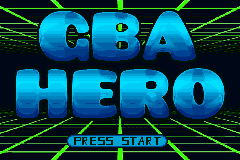
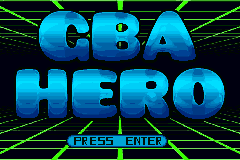
Updated download link, fullscreen button, instructions, and decorations

diff --git a/index.html b/index.html
@@ -7,7 +7,7 @@
   <!-- <link rel="stylesheet" href="./stylesheets/main.css"> -->
   <link rel="shortcut icon" href="./favicon.ico">
   <meta name="viewport" content="width=device-width, initial-scale=1">
-  <title>My Demo Site</title>
+  <title>GBA Hero</title>
 
   <style>
     body {
@@ -28,27 +28,101 @@
       margin: 0;
       background: powderblue;
       padding-top: 20px;
-      padding-bottom: 100px;
+      padding-bottom: 10px;
       color: black;
       font-size: 125%;
     }
 
-    img {
+    .displayImage {
       display: block;
       margin: auto;
       image-rendering: pixelated;
     }
+
+    .fullscreenbutton {
+    border: none;
+    color: rgb(255, 255, 255);
+    background-color: rgb(40, 40, 40);
+    padding: 5px 13px;
+    text-align: center;
+    text-decoration: none;
+    display: inline-block;
+    font-size: 32px;
+    margin: 4px 2px;
+    cursor: pointer;
+    position: relative;
+    display: flex;
+    margin: auto;
+    left: 425px;
+    top: 52px;
+    }
+
+    .downloadbutton {
+    border-style: dashed;
+    border-color: black;
+    border-width: 5px;
+    border-radius: 15%;
+    color: rgb(255, 255, 255);
+    background-color: dodgerblue;
+    /* transparent */
+    width: 200px;
+    height: 60px;
+
+    display: flex;
+    margin: auto;
+    justify-content: center;
+    align-items: center;
+
+    font-size: 32px;
+    text-decoration: none;
+    }
+
+    .leftbanner {
+      image-rendering: pixelated;
+      height: 100%;
+      position: fixed;
+      top: 0%;
+      left: 0%;
+      width: 18%;
+    }
+
+    .rightbanner {
+      image-rendering: pixelated;
+      height: 100%;
+      position: fixed;
+      top: 0%;
+      width: 18%;
+      left: 82%;
+      transform: scaleX(-1);
+    }
+
+    .container {
+      display: flex;
+    }
+
   </style>
 </head>
 
 <body>
   <!-- <h1>Welcome to my site.</h1>  -->
-  <img src="./Cool_Text_Trans.png" alt="Cool Text" width="720" height="405">
+  <img src="./Cool_Text_Trans.png" class="displayImage" alt="Cool Text" style="padding-top: 35px;" width="894" height="507">
   <!-- style="text-transform: uppercase;font-size: 54px;padding-top:0.7em;margin-top:0" -->
-  <iframe src="./mgba-player.html" style="width:792px;height:528px;margin:0 auto;display:block;"></iframe>
-  <p>Click to play.</p>
-  <p>Default controls are:</p>
-  <p>
+  <div>
+    <button class="fullscreenbutton button1" onclick="fullscreen()">⛶</button>
+    <script>
+      function fullscreen() {
+        document.getElementById("gameFrame").contentWindow.focus();
+        document.getElementById("gameFrame").contentWindow.letErRip();
+      }
+    </script>
+  <iframe id="gameFrame" src="./mgba-player.html" style="width:792px;height:528px;margin:0 auto;display:block;"></iframe>
+  </div>
+  <img src="./Instructions.png" class="displayImage" alt="Instructions Screen" style="padding: 20px;" width="800" height="271">
+  <img src="./8bitbackground.bmp" class="leftbanner" alt="8-bit sidebar">
+  <img src="./8bitbackground.bmp" class="rightbanner" alt="8-bit sidebar">
+  <p>Download the GBA ROM here!</p>
+  <a href="./GBA_Hero.gba" download class="downloadbutton button1">Download📥</a>
+  <!-- <p>
     B: Z<br />
     A: X<br />
     Left Shoulder: A<br />
@@ -56,6 +130,6 @@
     Start: Enter<br />
     Select: Backspace<br />
     D-Pad: Arrow Keys
-  </p>
+  </p> -->
 </body>
 </html>

diff --git a/mgba-player.html b/mgba-player.html
@@ -138,7 +138,7 @@
   <!-- <p>Welcome to GBA Hero, a game devloped for CS 2451.</p> -->
 
   <!-- user scripts -->
-  <script type="module">
+  <script id = "loadScript" type="module" data-activated="0">
     import mGBA from './mgba-wasm/dist/mgba.js';
 
     let game = "my_project";
@@ -162,6 +162,7 @@
     };
 
     window.onload = () => {
+
       mGBA(module).then(function (mGBA) {
         window.mGBA = mGBA;
         let mGBAVersion = mGBA.version.projectName + ' ' + mGBA.version.projectVersion;
@@ -169,21 +170,29 @@
         mGBA.setCoreSettings({ autoSaveStateEnable: false, restoreAutoSaveStateOnLoad: false });
 
         function letErRip() {
-          document.querySelector("#container").removeAttribute("class");
-          document.querySelectorAll("img.preview, .instructions").forEach((el => el.remove()));
-          mGBA.setCoreSettings( {rewindEnable: false, } );
-
-          document.addEventListener("keydown", e => console.log(e.key, e.code));
 
           document.getElementById("container").requestFullscreen();
-          mGBA.loadGame(mGBA.filePaths().gamePath + '/' + game + '.gba')
+
+          let activated = parseInt(document.getElementById("loadScript").dataset.activated);
+          if (activated == 1) {
+            return;
+          }
+          document.getElementById("loadScript").dataset.activated = 1;
+
+          document.querySelector("#container").removeAttribute("class");
+          document.querySelectorAll("img.preview, .instructions").forEach((el => el.remove()));
+          
+          mGBA.setCoreSettings( {rewindEnable: false, } );
+          mGBA.loadGame(mGBA.filePaths().gamePath + '/' + game + '.gba');
           mGBA.bindKey("a", "l");
-          mGBA.bindKey("s", "down");
+          mGBA.bindKey("s", "up");
           mGBA.bindKey("k", "b");
           mGBA.bindKey("l", "r");
           mGBA.bindKey("Backspace", "start");
           mGBA.bindKey("Return", "select");
         }
+
+        window.letErRip = letErRip;
 
         mGBA.FSInit().then(() => {
           getFileFromUrl(